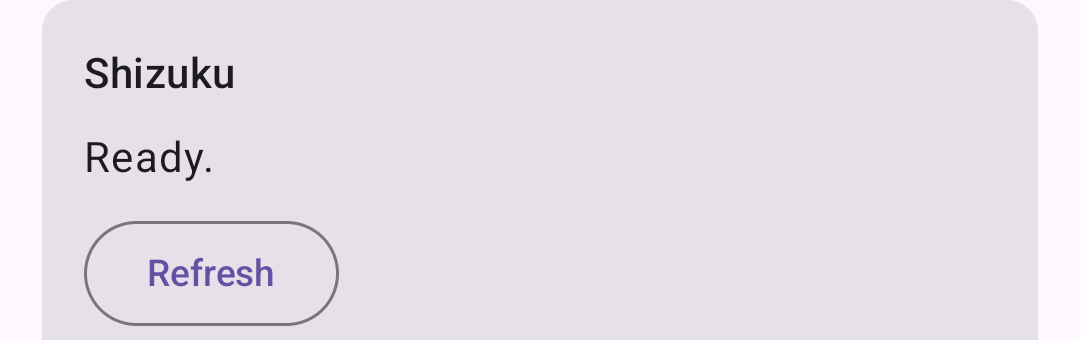
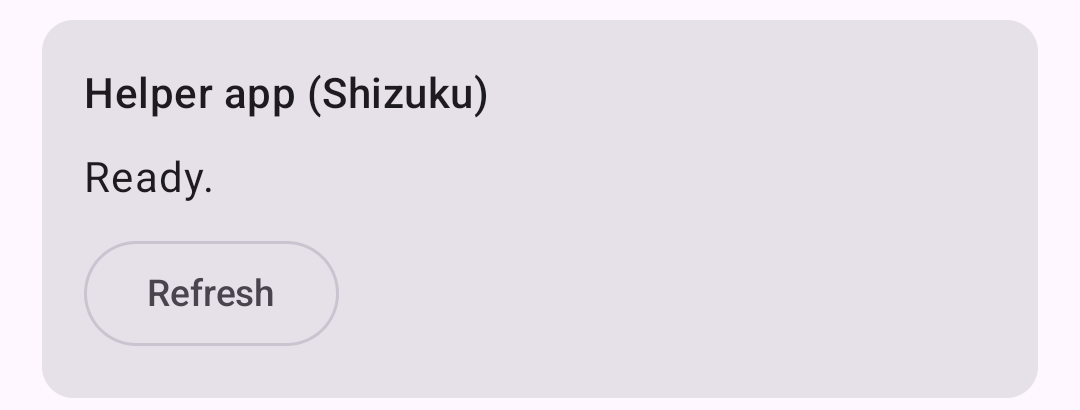
Show the 0.2.4 app screenshots in the README (#1)
Embed the fastlane phone screenshots under Setup and replace the
Shizuku card crop with one from the redesigned Details screen.

diff --git a/README.md b/README.md
@@ -25,6 +25,12 @@ It manages the Bluetooth link only. It never changes volume, program or audio so
 3. If the main screen says **Choose your sound processor**, tap **Choose processor** and pick it under **Sound processor**.
 4. Finish the last setup step, **Let this app start by itself**: tap **Turn on**, then **Allow** when Android asks to link the app to the processor. From then on the guard starts by itself whenever the processor connects or the phone restarts, even with the app closed. After a phone restart this starts working once you unlock the phone.
 
+<p>
+  <img src="fastlane/metadata/android/en-US/images/phoneScreenshots/1.png" width="240" alt="Main screen: Phone sound is on, with Use with another device">
+  <img src="fastlane/metadata/android/en-US/images/phoneScreenshots/2.png" width="240" alt="Setup steps: 2 steps left, Allow this app in the helper app">
+  <img src="fastlane/metadata/android/en-US/images/phoneScreenshots/3.png" width="240" alt="Details: Helper app (Shizuku) Ready, sound processor and guard status">
+</p>
+
 The main screen shows one status ("Phone sound is on", "Reconnecting…", "Waiting for your processor") and a button only when there is something to do, plus **Use with another device** once a processor is picked and Shizuku is ready (not while handed off). If the guard can't find the processor, the status adds that another phone, tablet or laptop may be holding on to it. Everything else (Shizuku, the processor picker, Start and Stop, the event log) is under **Details**. While the guard runs, its notification shows the same status, with **Use with another device** or **Bring sound back to phone**.
 
 The guard stops by itself, and its notification goes away, once streaming has held for 10 seconds, or after a minute with no link to the processor. While handed off, it keeps running so **Bring sound back to phone** stays in the notification.
@@ -68,10 +74,9 @@ Wireless debugging needs the phone connected to a Wi-Fi network, but any network
 1. Join any Wi-Fi network.
 2. Turn on Wireless debugging, and tap **Allow** if it asks about this network.
 3. Open Shizuku and tap **Start** under "Start via Wireless debugging".
-4. Open this app and tap **Refresh** under **Details**. The Shizuku card changes from "Not running" to "Ready".
+4. Open this app and tap **Refresh** under **Details**. The **Helper app (Shizuku)** card changes from "Not running" to "Ready".
 
-   <img src="docs/shizuku/app-not-running.png" width="360" alt="Shizuku card: Not running">
-   <img src="docs/shizuku/app-ready.png" width="360" alt="Shizuku card: Ready">
+   <img src="docs/shizuku/app-ready.png" width="360" alt="Helper app (Shizuku) card: Ready">
 5. Turn Wireless debugging off and leave the Wi-Fi if you like. With USB debugging on, Shizuku keeps running until the next restart.
 
 Shizuku runs inside Android's debugging service, and Android stops that service once neither USB debugging nor Wireless debugging is on. Shizuku stops with it. That happens when the phone leaves Wi-Fi with USB debugging off, since Wireless debugging then switches itself off, and when Developer options are turned off.
